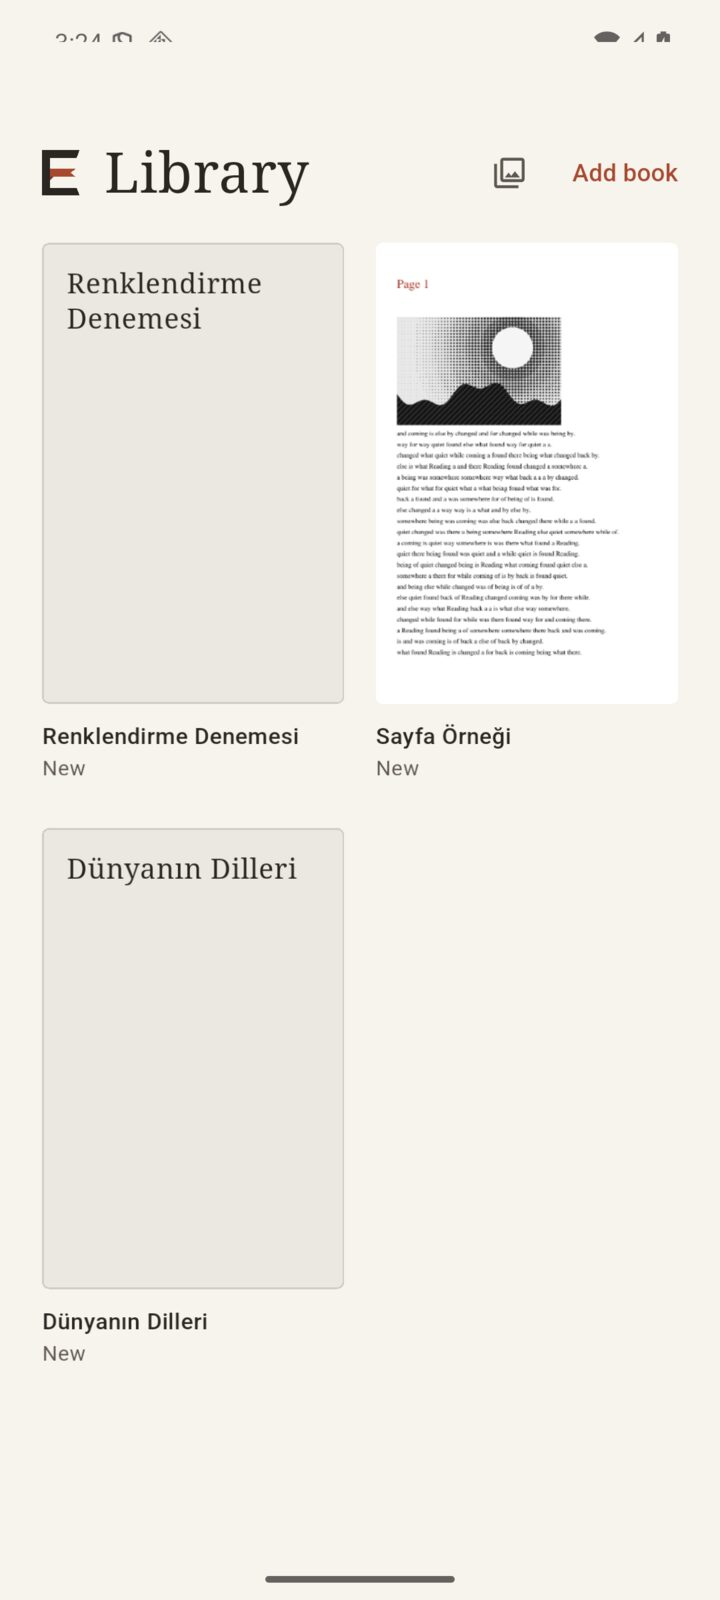
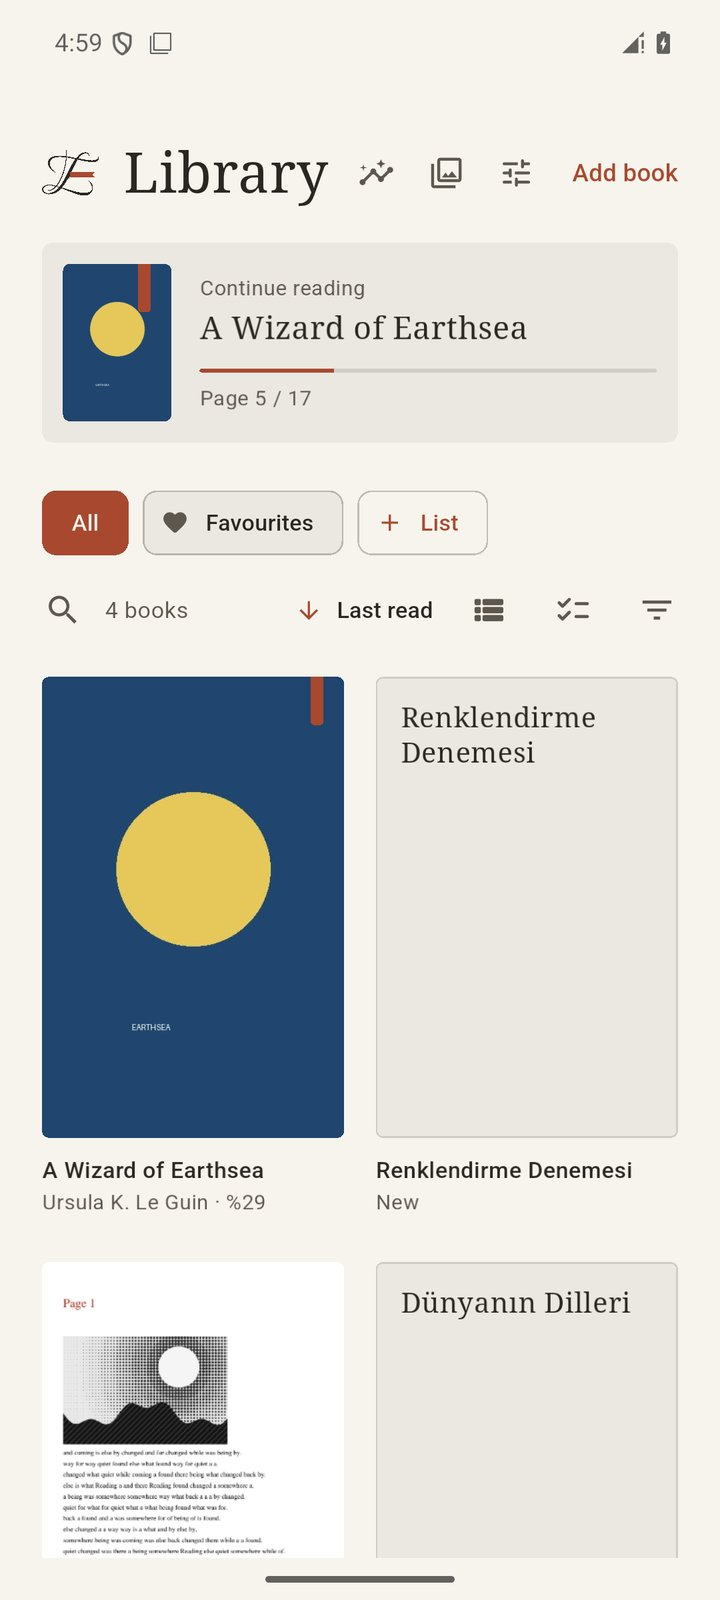
0.2.0: headset buttons reach the app, title covers on the shelf widget, screenshots and site texts
A silent loop while speaking makes the app's media session the one that gets
headset buttons; before, Android passed them to the last music app. The edge
brightness badge no longer fills the strip, books without a cover show their
title on the widget, and a streak of one day reads in the singular.

New screenshots of the library, highlights and the home-screen shelf on the
site and in the README, with shorter feature and changelog texts so each page
still fits a phone. A test covers the Wi-Fi server.

diff --git a/site/book.js b/site/book.js
@@ -24,18 +24,18 @@ const T = {
   },
 };
 const FEATURES = {
-  en:[['Every common format','PDF, EPUB, MOBI, AZW3, FB2, DjVu, CBZ, CBR, CB7, DOCX, RTF, Markdown and more.'],['A page that really turns','Follows your finger, from the corner, the edge or the middle, on one page or two.'],['Your tap zones','Draw rectangles and circles on the screen and decide what each does.'],['Actual book mode','Paper grain, fold, lighting, side pages and a shadow on the table.'],['Themes','Paper, Parchment, OLED, E-ink and your own background, in light and dark.'],['2,100 free fonts','With previews, plus your own by file or URL.'],['On-device colorization','Black-and-white pictures get colour, offline, in the same place at the same size.'],['Read aloud','Each word lit like a highlighter, speed from 0.5x to 3x, lock-screen and headphone controls, and music turned down under it. System voice, voices in 31 languages, or your own API key.'],['Pinch and pictures','Zoom any page. Tap a picture to open it, switch colour on and off.'],['Manga and webtoons','Right-to-left reading per book, and panel by panel. Webtoons scroll as one strip, edge to edge.'],['Your library, your way','Lists, series, ratings, tags, search, sort and one-file backup. Books come from files, a folder, Calibre or a computer over Wi-Fi.'],['Notes and highlights','Long-press a sentence to highlight it, add a note, look it up or share it as a picture. Export them all as Markdown.']],
-  tr:[['Tüm yaygın biçimler','PDF, EPUB, MOBI, AZW3, FB2, DjVu, CBZ, CBR, CB7, DOCX, RTF, Markdown ve dahası.'],['Gerçekten dönen sayfa','Parmağını izler; köşeden, kenardan, ortadan, tek ya da çift sayfada.'],['Kendi dokunma alanların','Ekrana dikdörtgen ve daire çiz, her birine ne yapacağını söyle.'],['Gerçek kitap modu','Kağıt dokusu, cilt, ışık, yan sayfalar ve masadaki gölge.'],['Temalar','Kağıt, Parşömen, OLED, E-ink ve kendi arka planın, açık ve koyu.'],['2.100 ücretsiz font','Önizlemeli; dosya veya adresle kendi fontunu da eklersin.'],['Telefonda renklendirme','Siyah beyaz görseller internetsiz, aynı yerde aynı boyutta renklenir.'],['Sesli okuma','Her kelime fosforlu kalemle işaretlenir, hız 0.5x ile 3x arası, kilit ekranından ve kulaklıktan kontrol, müzik altta kısılır. Sistem sesi, 31 dilde sesler veya kendi API anahtarın.'],['Zoom ve görseller','Her sayfaya zoom. Görsele dokun, aç, rengi aç kapat.'],['Manga ve webtoon','Kitap başına sağdan sola ve panel panel okuma. Webtoonlar kenardan kenara tek şerit olarak kayar.'],['Kendi kitaplığın','Listeler, seriler, puanlar, etiketler, arama, sıralama ve tek dosyada yedek. Kitaplar dosyadan, klasörden, Calibre\'den ya da bilgisayardan Wi-Fi ile gelir.'],['Notlar ve vurgular','Bir cümleye uzun basıp vurgula, not ekle, sözlükte bak ya da görsel olarak paylaş. Hepsini Markdown olarak dışa aktar.']],
+  en:[['Every common format','PDF, EPUB, MOBI, AZW3, FB2, DjVu, CBZ, CBR, DOCX and more.'],['A page that really turns','Follows your finger from the corner, edge or middle.'],['Your tap zones','Draw rectangles and circles on the screen and decide what each does.'],['Actual book mode','Paper grain, fold, lighting, side pages and a shadow on the table.'],['Themes','Paper, Parchment, OLED, E-ink and your own background, in light and dark.'],['2,100 free fonts','With previews, plus your own by file or URL.'],['On-device colorization','Black-and-white pictures get colour, offline, in the same place at the same size.'],['Read aloud','Each word lit like a highlighter, 0.5x to 3x, lock-screen controls. System voice, voices in 31 languages, or your own API key.'],['Pinch and pictures','Zoom any page. Tap a picture to open it, switch colour on and off.'],['Manga and webtoons','Right-to-left reading per book, and panel by panel. Webtoons scroll as one strip, edge to edge.'],['Your library, your way','Lists, series, ratings, search and backup. Books from files, a folder, Calibre or Wi-Fi.'],['Highlights and notes','Long-press a sentence to mark it, note it or share it as a picture.']],
+  tr:[['Tüm yaygın biçimler','PDF, EPUB, MOBI, AZW3, FB2, DjVu, CBZ, CBR, DOCX ve dahası.'],['Gerçekten dönen sayfa','Köşeden, kenardan ya da ortadan parmağını izler.'],['Kendi dokunma alanların','Ekrana dikdörtgen ve daire çiz, her birine ne yapacağını söyle.'],['Gerçek kitap modu','Kağıt dokusu, cilt, ışık, yan sayfalar ve masadaki gölge.'],['Temalar','Kağıt, Parşömen, OLED, E-ink ve kendi arka planın, açık ve koyu.'],['2.100 ücretsiz font','Önizlemeli; dosya veya adresle kendi fontunu da eklersin.'],['Telefonda renklendirme','Siyah beyaz görseller internetsiz, aynı yerde aynı boyutta renklenir.'],['Sesli okuma','Her kelime fosforlu kalemle işaretlenir, 0.5x ile 3x arası, kilit ekranından kontrol. Sistem sesi, 31 dilde sesler veya kendi API anahtarın.'],['Zoom ve görseller','Her sayfaya zoom. Görsele dokun, aç, rengi aç kapat.'],['Manga ve webtoon','Kitap başına sağdan sola ve panel panel okuma. Webtoonlar kenardan kenara tek şerit olarak kayar.'],['Kendi kitaplığın','Listeler, seriler, puanlar, arama ve yedek. Kitaplar dosyadan, klasörden, Calibre\'den ya da Wi-Fi ile.'],['Vurgular ve notlar','Bir cümleye uzun basıp işaretle, not al ya da görsel olarak paylaş.']],
 };
 const CHANGES = {
-  en:[['0.2.0','Highlights, notes and dictionary, a quote shared as a picture. Comics panel by panel. Reading statistics and a daily goal, time left in the chapter. Ratings, series, a recently added shelf and picking several books. Books from a folder, a Calibre library or a computer over Wi-Fi. A home-screen bookshelf. Read aloud from the lock screen, with music turned down rather than over it. Dark pages by the clock, brightness along the left edge. A library that could be lost when the app closed is now written safely.'],['0.1.8','Search the library, a list view, and a backup of the whole library in one file. Turkish alphabetical order. The page bar runs from the right in right-to-left books. Adding a file with the name of one already in the library no longer replaces that book.'],['0.1.7','Library: sort (last read, date added, publication date, title, author, publisher, category) and filter (status, category, tag, format, language). A book can be in several categories. Your own covers. Book details read from every format and found online, with a sheet to pick and edit what to keep. The online search text can be edited. Gallery pictures open their book at their page.'],['0.1.6','Favourites, your own lists, categories and tags. Categories and tags found on Open Library by title, on by default. Settings from the library.'],['0.1.5','Webtoons scroll as one strip with no gap. Comic and DjVu pages keep their shape in Scroll mode.'],['0.1.4','Read right to left, per book, for manga.'],['0.1.3','CB7 comics and DjVu books open. A tap on a picture that fills the page opens the menu, as on any page.'],['0.1.2','Speaking speed from 0.5x to 3x, in settings and by holding the speed button on the player.'],['0.1.1','Read aloud marks each word like a highlighter. Drag the marker or the bar to move the voice. Keeps reading with the screen off. Sepia pictures can be colorized.'],['0.1.0','First public version for Android. Reader, formats, themes, colorization, read aloud, picture viewer, English and Turkish.']],
-  tr:[['0.2.0','Vurgular, notlar ve sözlük; alıntıyı görsel olarak paylaşma. Çizgi romanlarda panel panel okuma. Okuma istatistikleri ve günlük hedef, bölümde kalan süre. Puanlar, seriler, son eklenenler rafı ve çoklu seçim. Klasörden, Calibre kitaplığından ya da bilgisayardan Wi-Fi ile kitap alma. Ana ekran için kitaplık rafı. Kilit ekranından sesli okuma; müzik üstüne binmez, kısılır. Saate göre koyu tema, sol kenarda parlaklık. Uygulama kapanırken kitaplığın kaybolabildiği hata giderildi.'],['0.1.8','Kitaplıkta arama, liste görünümü ve tüm kitaplığın tek dosyada yedeği. Türkçe alfabe sırası. Sağdan sola kitaplarda sayfa çubuğu sağdan başlar. Kitaplıktakiyle aynı adlı bir dosya eklemek artık o kitabın yerine geçmiyor.'],['0.1.7','Kitaplık: sıralama (okuma tarihi, eklenme tarihi, yayım tarihi, ad, yazar, yayınevi, kategori) ve filtre (durum, kategori, etiket, biçim, dil). Bir kitap birden çok kategoride olabilir. Kendi kapakların. Kitap bilgileri her biçimden okunur ve internetten bulunur; neyin kalacağını seçip düzenlediğin bir pencereyle. İnternette aranacak metin düzenlenebilir. Galerideki görseller kitaplarını o sayfada açar.'],['0.1.6','Favoriler, kendi listelerin, kategoriler ve etiketler. Kategori ve etiketler kitap adıyla Open Library\'den bulunur, varsayılan açık. Kitaplıktan ayarlara geçiş.'],['0.1.5','Webtoonlar boşluksuz tek şerit olarak kayar. Kaydırma modunda çizgi roman ve DjVu sayfaları kendi oranını korur.'],['0.1.4','Manga için kitap başına sağdan sola okuma.'],['0.1.3','CB7 çizgi romanlar ve DjVu kitaplar açılır. Sayfayı dolduran bir görsele dokununca, her sayfadaki gibi menü açılır.'],['0.1.2','Konuşma hızı 0.5x ile 3x arası; ayarlardan ya da oynatıcıdaki hız düğmesine basılı tutarak.'],['0.1.1','Sesli okuma her kelimeyi fosforlu kalem gibi işaretler. İşareti ya da çubuğu sürükleyerek sesi taşıyabilirsin. Ekran kapalıyken de okur. Sepya görseller renklendirilebilir.'],['0.1.0','Android için ilk genel sürüm. Okuyucu, biçimler, temalar, renklendirme, sesli okuma, görsel görüntüleyici, Türkçe ve İngilizce.']],
+  en:[['0.2.0','Highlights and notes, comics panel by panel, reading statistics, ratings and series. Books from a folder, Calibre or Wi-Fi. A home-screen bookshelf. Read aloud from the lock screen, over quieter music. Fixed: the library could be lost when the app closed.'],['0.1.8','Search the library, a list view, and a backup of the whole library in one file. Turkish alphabetical order. The page bar runs from the right in right-to-left books. Adding a file with the name of one already in the library no longer replaces that book.'],['0.1.7','Library: sort (last read, date added, publication date, title, author, publisher, category) and filter (status, category, tag, format, language). A book can be in several categories. Your own covers. Book details read from every format and found online, with a sheet to pick and edit what to keep. The online search text can be edited. Gallery pictures open their book at their page.'],['0.1.6','Favourites, your own lists, categories and tags. Categories and tags found on Open Library by title, on by default. Settings from the library.'],['0.1.5','Webtoons scroll as one strip with no gap. Comic and DjVu pages keep their shape in Scroll mode.'],['0.1.4','Read right to left, per book, for manga.'],['0.1.3','CB7 comics and DjVu books open. A tap on a picture that fills the page opens the menu, as on any page.'],['0.1.2','Speaking speed from 0.5x to 3x, in settings and by holding the speed button on the player.'],['0.1.1','Read aloud marks each word like a highlighter. Drag the marker or the bar to move the voice. Keeps reading with the screen off. Sepia pictures can be colorized.'],['0.1.0','First public version for Android. Reader, formats, themes, colorization, read aloud, picture viewer, English and Turkish.']],
+  tr:[['0.2.0','Vurgular ve notlar, panel panel çizgi roman, okuma istatistikleri, puanlar ve seriler. Klasörden, Calibre\'den ya da Wi-Fi ile kitap. Ana ekranda kitaplık rafı. Kilit ekranından sesli okuma, müzik altta kısılır. Düzeltildi: uygulama kapanırken kitaplık kaybolabiliyordu.'],['0.1.8','Kitaplıkta arama, liste görünümü ve tüm kitaplığın tek dosyada yedeği. Türkçe alfabe sırası. Sağdan sola kitaplarda sayfa çubuğu sağdan başlar. Kitaplıktakiyle aynı adlı bir dosya eklemek artık o kitabın yerine geçmiyor.'],['0.1.7','Kitaplık: sıralama (okuma tarihi, eklenme tarihi, yayım tarihi, ad, yazar, yayınevi, kategori) ve filtre (durum, kategori, etiket, biçim, dil). Bir kitap birden çok kategoride olabilir. Kendi kapakların. Kitap bilgileri her biçimden okunur ve internetten bulunur; neyin kalacağını seçip düzenlediğin bir pencereyle. İnternette aranacak metin düzenlenebilir. Galerideki görseller kitaplarını o sayfada açar.'],['0.1.6','Favoriler, kendi listelerin, kategoriler ve etiketler. Kategori ve etiketler kitap adıyla Open Library\'den bulunur, varsayılan açık. Kitaplıktan ayarlara geçiş.'],['0.1.5','Webtoonlar boşluksuz tek şerit olarak kayar. Kaydırma modunda çizgi roman ve DjVu sayfaları kendi oranını korur.'],['0.1.4','Manga için kitap başına sağdan sola okuma.'],['0.1.3','CB7 çizgi romanlar ve DjVu kitaplar açılır. Sayfayı dolduran bir görsele dokununca, her sayfadaki gibi menü açılır.'],['0.1.2','Konuşma hızı 0.5x ile 3x arası; ayarlardan ya da oynatıcıdaki hız düğmesine basılı tutarak.'],['0.1.1','Sesli okuma her kelimeyi fosforlu kalem gibi işaretler. İşareti ya da çubuğu sürükleyerek sesi taşıyabilirsin. Ekran kapalıyken de okur. Sepya görseller renklendirilebilir.'],['0.1.0','Android için ilk genel sürüm. Okuyucu, biçimler, temalar, renklendirme, sesli okuma, görsel görüntüleyici, Türkçe ve İngilizce.']],
 };
 const PRIVACY = {
   en:`<p><b>Who.</b> EgeBookReader is developed by Ege BULUT. Contact: egebulut.iletisim@outlook.com.</p><p><b>What the app collects.</b> Nothing. There is no account, no analytics and no advertising. Your books, settings, bookmarks and coloured pictures stay on your device.</p><p><b>When the app uses the internet.</b> Mostly when you ask for something that needs it: the font list and fonts come from Fontsource and jsDelivr; colorization models from Hugging Face or Qualcomm; voices from GitHub. One exception is on unless you turn it off: to file books into categories and suggest tags, the app sends each new book's search text, its title and author unless you change it, to Open Library, and nothing else. Turn it off in Settings, Library. Those services see your IP address, as any website does.</p><p><b>API keys.</b> If you add your own read-aloud API key, the text being read is sent to the service you chose, under that service's terms. The key stays on your device.</p><p><b>This website.</b> It is hosted on Vercel, which keeps standard access logs. The site sets no cookies and has no analytics. Fonts load from Google Fonts.</p><p><b>Your rights.</b> Since the app holds no data about you on any server, deleting the app deletes everything. For questions, write to the address above.</p>`,
   tr:`<p><b>Veri sorumlusu.</b> EgeBookReader, Ege BULUT tarafından geliştirilir. İletişim: egebulut.iletisim@outlook.com.</p><p><b>Uygulamanın topladığı veriler.</b> Hiçbiri. Hesap, analiz ve reklam yoktur. Kitapların, ayarların, yer imlerin ve renklendirdiğin görseller cihazında kalır.</p><p><b>Uygulama internete ne zaman çıkar.</b> Çoğunlukla sen internet gerektiren bir şey istediğinde: font listesi ve fontlar Fontsource ve jsDelivr'den, renklendirme modelleri Hugging Face veya Qualcomm'dan, sesler GitHub'dan iner. Bir istisna, sen kapatmadıkça açıktır: kitapları kategorilere ayırmak ve etiket önermek için uygulama her yeni kitabın arama metnini (değiştirmedikçe adı ve yazarı) Open Library'ye gönderir, başka bir şey göndermez. Ayarlar, Kitaplık bölümünden kapatabilirsin. Bu servisler, her web sitesi gibi IP adresini görür.</p><p><b>API anahtarları.</b> Kendi sesli okuma API anahtarını eklersen, okunan metin seçtiğin servise o servisin koşullarıyla gönderilir. Anahtar cihazında kalır.</p><p><b>Bu web sitesi.</b> Vercel'de barındırılır; Vercel standart erişim kayıtları tutar. Site çerez kullanmaz, analiz aracı yoktur. Fontlar Google Fonts'tan yüklenir.</p><p><b>Hakların.</b> Uygulama hiçbir sunucuda senin hakkında veri tutmadığı için uygulamayı silmek her şeyi siler. Soruların için yukarıdaki adrese yazabilirsin.</p>`,
 };
-const SHOTS = ['library','flip','book','colorize','viewer'];
+const SHOTS = ['library','highlights','flip','book','widget'];
 const COMPARE = ['book','manga'].flatMap(k => ['orig','ddcolor','manga'].map(v => `compare-${k}-${v}`));
 
 let lang = localStorage.getItem('lang') || (navigator.language.startsWith('tr') ? 'tr' : 'en');

diff --git a/app/android/app/src/main/kotlin/dev/egebulut/egebookreader/ReadingService.kt b/app/android/app/src/main/kotlin/dev/egebulut/egebookreader/ReadingService.kt
@@ -12,6 +12,8 @@ import android.content.IntentFilter
 import android.content.pm.ServiceInfo
 import android.media.AudioAttributes
 import android.media.AudioFocusRequest
+import android.media.AudioFormat
+import android.media.AudioTrack
 import android.media.AudioManager
 import android.media.MediaMetadata
 import android.media.session.MediaSession
@@ -32,6 +34,28 @@ class ReadingService : Service() {
     private var session: MediaSession? = null
     private var focus: AudioFocusRequest? = null
     private var listening = false
+    private var silence: AudioTrack? = null
+
+    // The system voice speaks from the TTS engine's process, so Android would not count this app as playing and would
+    // send headset buttons to the last music app (which then starts). A silent loop from here makes the buttons ours.
+    private fun holdSilence(on: Boolean) {
+        if (!on) return silence?.pause() ?: Unit
+        val track = silence ?: run {
+            val bytes = 1600 // 0.1 s of 16-bit mono at 8 kHz
+            AudioTrack.Builder()
+                .setAudioAttributes(AudioAttributes.Builder().setUsage(AudioAttributes.USAGE_MEDIA).setContentType(AudioAttributes.CONTENT_TYPE_SPEECH).build())
+                .setAudioFormat(AudioFormat.Builder().setEncoding(AudioFormat.ENCODING_PCM_16BIT).setSampleRate(8000).setChannelMask(AudioFormat.CHANNEL_OUT_MONO).build())
+                .setTransferMode(AudioTrack.MODE_STATIC)
+                .setBufferSizeInBytes(bytes)
+                .build()
+                .apply {
+                    write(ByteArray(bytes), 0, bytes)
+                    setLoopPoints(0, bytes / 2, -1)
+                }
+                .also { silence = it }
+        }
+        track.play()
+    }
     private val noisy = object : BroadcastReceiver() {
         override fun onReceive(context: Context?, intent: Intent?) { MainActivity.sendSpeechAction(ACTION_PAUSE) }
     }
@@ -80,6 +104,7 @@ class ReadingService : Service() {
                 ShelfWidget.setSpeech(this, title, paused)
                 holdWakeLock()
                 holdFocus(!paused)
+                holdSilence(!paused)
                 if (!listening) {
                     val filter = IntentFilter(AudioManager.ACTION_AUDIO_BECOMING_NOISY)
                     if (Build.VERSION.SDK_INT >= 33) registerReceiver(noisy, filter, RECEIVER_NOT_EXPORTED) else registerReceiver(noisy, filter)
@@ -156,6 +181,8 @@ class ReadingService : Service() {
         ShelfWidget.setSpeech(this, null, false)
         if (wakeLock?.isHeld == true) wakeLock?.release()
         holdFocus(false)
+        silence?.release()
+        silence = null
         session?.release()
         session = null
         if (listening) unregisterReceiver(noisy)

diff --git a/app/test/wifi_test.dart b/app/test/wifi_test.dart
@@ -1,0 +1,51 @@
+import 'dart:convert';
+import 'dart:io';
+
+import 'package:egebookreader/incoming.dart';
+import 'package:flutter_test/flutter_test.dart';
+import 'package:path_provider_platform_interface/path_provider_platform_interface.dart';
+import 'package:plugin_platform_interface/plugin_platform_interface.dart';
+
+class _Cache extends PathProviderPlatform with MockPlatformInterfaceMixin {
+  _Cache(this.dir);
+  final String dir;
+  @override
+  Future<String?> getApplicationCachePath() async => dir;
+}
+
+void main() {
+  test('the Wi-Fi page is only at its secret path, takes uploads, and refuses paths out of its folder', () async {
+    final cache = Directory.systemTemp.createTempSync('wifi');
+    PathProviderPlatform.instance = _Cache(cache.path);
+    final t = WifiTransfer();
+    await t.start();
+    final base = 'http://127.0.0.1:${t.server!.port}';
+    final token = (t.address ?? '/x/').split('/').reversed.elementAt(1);
+    final client = HttpClient();
+    Future<int> call(String method, String path, [String body = '']) async {
+      final r = await client.openUrl(method, Uri.parse('$base$path'));
+      r.followRedirects = false;
+      r.write(body);
+      final res = await r.close();
+      await res.drain<void>();
+      return res.statusCode;
+    }
+
+    expect(await call('GET', '/'), 404);
+    expect(await call('GET', '/wrong/'), 404);
+    if (t.address != null) {
+      expect(await call('GET', '/$token/'), 200);
+      expect(await call('GET', '/$token'), 302);
+      expect(await call('PUT', '/$token/upload?path=${Uri.encodeQueryComponent('../../evil.txt')}', 'x'), 400);
+      expect(await call('PUT', '/$token/upload?path=${Uri.encodeQueryComponent('/etc/evil.txt')}', 'x'), 400);
+      expect(await call('PUT', '/$token/upload?path=${Uri.encodeQueryComponent('Calibre/A/B (1)/b.txt')}', 'hello'), 200);
+      final got = cache.listSync(recursive: true).whereType<File>().toList();
+      expect(got.map((f) => utf8.decode(f.readAsBytesSync())), ['hello']);
+      expect(got.single.path, startsWith(cache.path));
+      expect(t.status.value, contains('1'));
+    }
+    await t.stop();
+    client.close();
+    cache.deleteSync(recursive: true);
+  });
+}

diff --git a/app/android/app/src/main/kotlin/dev/egebulut/egebookreader/ShelfWidget.kt b/app/android/app/src/main/kotlin/dev/egebulut/egebookreader/ShelfWidget.kt
@@ -90,7 +90,7 @@ open class ShelfWidget(private val count: Int) : AppWidgetProvider() {
                 v.setViewVisibility(id, View.VISIBLE)
                 val cover = book.optString("cover")
                 val bitmap = if (cover.isEmpty()) null else BitmapFactory.decodeFile(cover, BitmapFactory.Options().apply { inSampleSize = sampleFor(cover) })
-                if (bitmap != null) v.setImageViewBitmap(id, bitmap) else v.setImageViewResource(id, R.drawable.ic_launcher_foreground)
+                v.setImageViewBitmap(id, bitmap ?: titleCover(context, book.optString("title")))
                 v.setContentDescription(id, book.optString("title"))
                 v.setOnClickPendingIntent(id, open(context, slot, book.getString("path"), false))
             }
@@ -107,6 +107,24 @@ open class ShelfWidget(private val count: Int) : AppWidgetProvider() {
                 if (books.length() > 0) v.setOnClickPendingIntent(R.id.play, open(context, 9, books.getJSONObject(0).getString("path"), true))
             }
             return v
+        }
+
+        /** A book without a cover gets its title on paper, as on the library shelf. */
+        private fun titleCover(context: Context, title: String): android.graphics.Bitmap {
+            val w = 200
+            val h = 300
+            val bitmap = android.graphics.Bitmap.createBitmap(w, h, android.graphics.Bitmap.Config.ARGB_8888)
+            val canvas = android.graphics.Canvas(bitmap)
+            canvas.drawColor(0xFFECE7DF.toInt())
+            val paint = android.text.TextPaint(android.graphics.Paint.ANTI_ALIAS_FLAG).apply {
+                color = 0xFF2A2622.toInt()
+                textSize = 22f
+                typeface = android.graphics.Typeface.SERIF
+            }
+            val layout = android.text.StaticLayout.Builder.obtain(title, 0, title.length, paint, w - 28).setMaxLines(5).setEllipsize(android.text.TextUtils.TruncateAt.END).build()
+            canvas.translate(14f, 16f)
+            layout.draw(canvas)
+            return bitmap
         }
 
         /** A cover is drawn about 240 px wide at most, which keeps the shelf well inside the widget's memory limit. */

diff --git a/app/lib/reader.dart b/app/lib/reader.dart
@@ -1283,7 +1283,9 @@ class _ReaderScreenState extends State<ReaderScreen> with TickerProviderStateMix
         child: shown == null
             ? null
             : OverflowBox(
+                minWidth: 0,
                 maxWidth: 200,
+                minHeight: 0,
                 alignment: Alignment.centerLeft,
                 child: Container(
                   margin: const EdgeInsets.only(left: 34),
@@ -1292,7 +1294,7 @@ class _ReaderScreenState extends State<ReaderScreen> with TickerProviderStateMix
                   child: Row(mainAxisSize: MainAxisSize.min, children: [
                     Icon(Icons.brightness_6_outlined, size: 18, color: c.paper),
                     const SizedBox(width: 6),
-                    Text('%${(shown * 100).round()}', style: TextStyle(color: c.paper, fontSize: 14)),
+                    Text(uiLanguage == 'tr' ? '%${(shown * 100).round()}' : '${(shown * 100).round()}%', style: TextStyle(color: c.paper, fontSize: 14)),
                   ]),
                 ),
               ),

diff --git a/app/lib/stats.dart b/app/lib/stats.dart
@@ -133,7 +133,7 @@ class StatsScreen extends StatelessWidget {
                   Row(children: [
                     Icon(Icons.local_fire_department_outlined, color: c.accent, size: 20),
                     const SizedBox(width: 6),
-                    Text('${stats.streak()} ${tr('gün üst üste')}', style: TextStyle(color: c.muted, fontSize: 14)),
+                    Text('${stats.streak()} ${stats.streak() == 1 && uiLanguage != 'tr' ? 'day in a row' : tr('gün üst üste')}', style: TextStyle(color: c.muted, fontSize: 14)),
                   ]),
                 ]),
               ),

diff --git a/memory/decisions.md b/memory/decisions.md
@@ -204,4 +204,6 @@ that names the old one.
 - Read aloud 2.0: ReadingService holds AUDIOFOCUS_GAIN_TRANSIENT_MAY_DUCK (music ducks), a MediaSession (lock screen, headset buttons, so a headset press no longer starts music), MediaStyle notification, and pauses on AUDIO_BECOMING_NOISY. The audioplayers player asks for no focus of its own.
 - Imports share `lib/incoming.dart`: `booksAmong` groups by folder; a folder with metadata.opf is a Calibre book, one format kept (epub, azw3, mobi, fb2, pdf), with its opf facts and cover.jpg. Folder (SAF tree, persisted permission, listed and copied in Kotlin) and watched folder (rechecked at start and resume; every listed path counts as seen). Wi-Fi: a dart:io server on 8080 (or any free port) at a random 6-character path, upload by PUT with the relative path checked, then one POST to import; it runs only while its sheet is open.
 - Home-screen shelf: two AppWidgetProviders (Shelf3, Shelf5) drawn from SharedPreferences that Dart fills (`shelf`), covers down-sampled to about 240 px. A cover opens its book through an intent the library handles (`takeOpen` on a cold start, `open` otherwise); the play button opens the first book and reads it aloud; while speaking, the buttons go to the reading controls through a broadcast. Android calls are now dispatched once in main (`readerCalls` for the reader).
-- Checked: analyze clean, 37 tests pass (2 skipped), release APK built. On the emulator with 0.1.9: highlight colour and note, the painted highlight, the contents list and Markdown export. 
+- Found on the emulator: Android gave headset buttons to no session (the system voice plays from the TTS engine's process), which is why unplugging or pressing headphones started music. ReadingService now loops a silent AudioTrack while speaking, so the app's session gets the buttons. Also fixed: the brightness badge filled the edge strip; books without a cover show their title on the shelf widget instead of the app icon.
+- Checked: analyze clean, 38 tests pass (2 skipped), including the Wi-Fi server (secret path, upload, paths out of the folder refused). On the emulator, offline: highlight colours, notes, contents list and Markdown export; quote picture and share sheet; Calibre folder (title, author, series, volume, cover, one format of two); watched folder picking up a new file on resume; rating saved; time left, cover-coloured bar, edge brightness; media session, ducking focus request, pause from the card, headset pause and play, pause on AUDIO_BECOMING_NOISY; both widgets, cover tap, play from a killed process, pause and stop; night by the clock; multi-select; stats. Not tried end to end: Wi-Fi transfer (the emulator's network stays off).
+- Released 2026-11-12 at the user's request (they asked for the APK first, then the repo, release, site, README, features, notes and screenshots). New screenshots: library, highlights, widget (site and README). The site's feature and changelog texts were shortened so every page still fits a phone.

diff --git a/README.md b/README.md
@@ -71,6 +71,16 @@ Most readers show you a document. This one tries to give you a book.
     <td align="center"><sub>Tap a picture to open it</sub></td>
     <td align="center"><sub>Settings over the live page</sub></td>
   </tr>
+  <tr>
+    <td><img src="docs/assets/library.jpg" alt="The library with a continue-reading card and a Calibre book with its cover"></td>
+    <td><img src="docs/assets/highlights.jpg" alt="Two sentences highlighted in green and yellow, with the note sheet open"></td>
+    <td><img src="docs/assets/widget.jpg" alt="The bookshelf widget on the home screen with four books and a read-aloud button"></td>
+  </tr>
+  <tr>
+    <td align="center"><sub>The library</sub></td>
+    <td align="center"><sub>Highlights and notes</sub></td>
+    <td align="center"><sub>A bookshelf on the home screen</sub></td>
+  </tr>
 </table>
 
 <p align="center">
